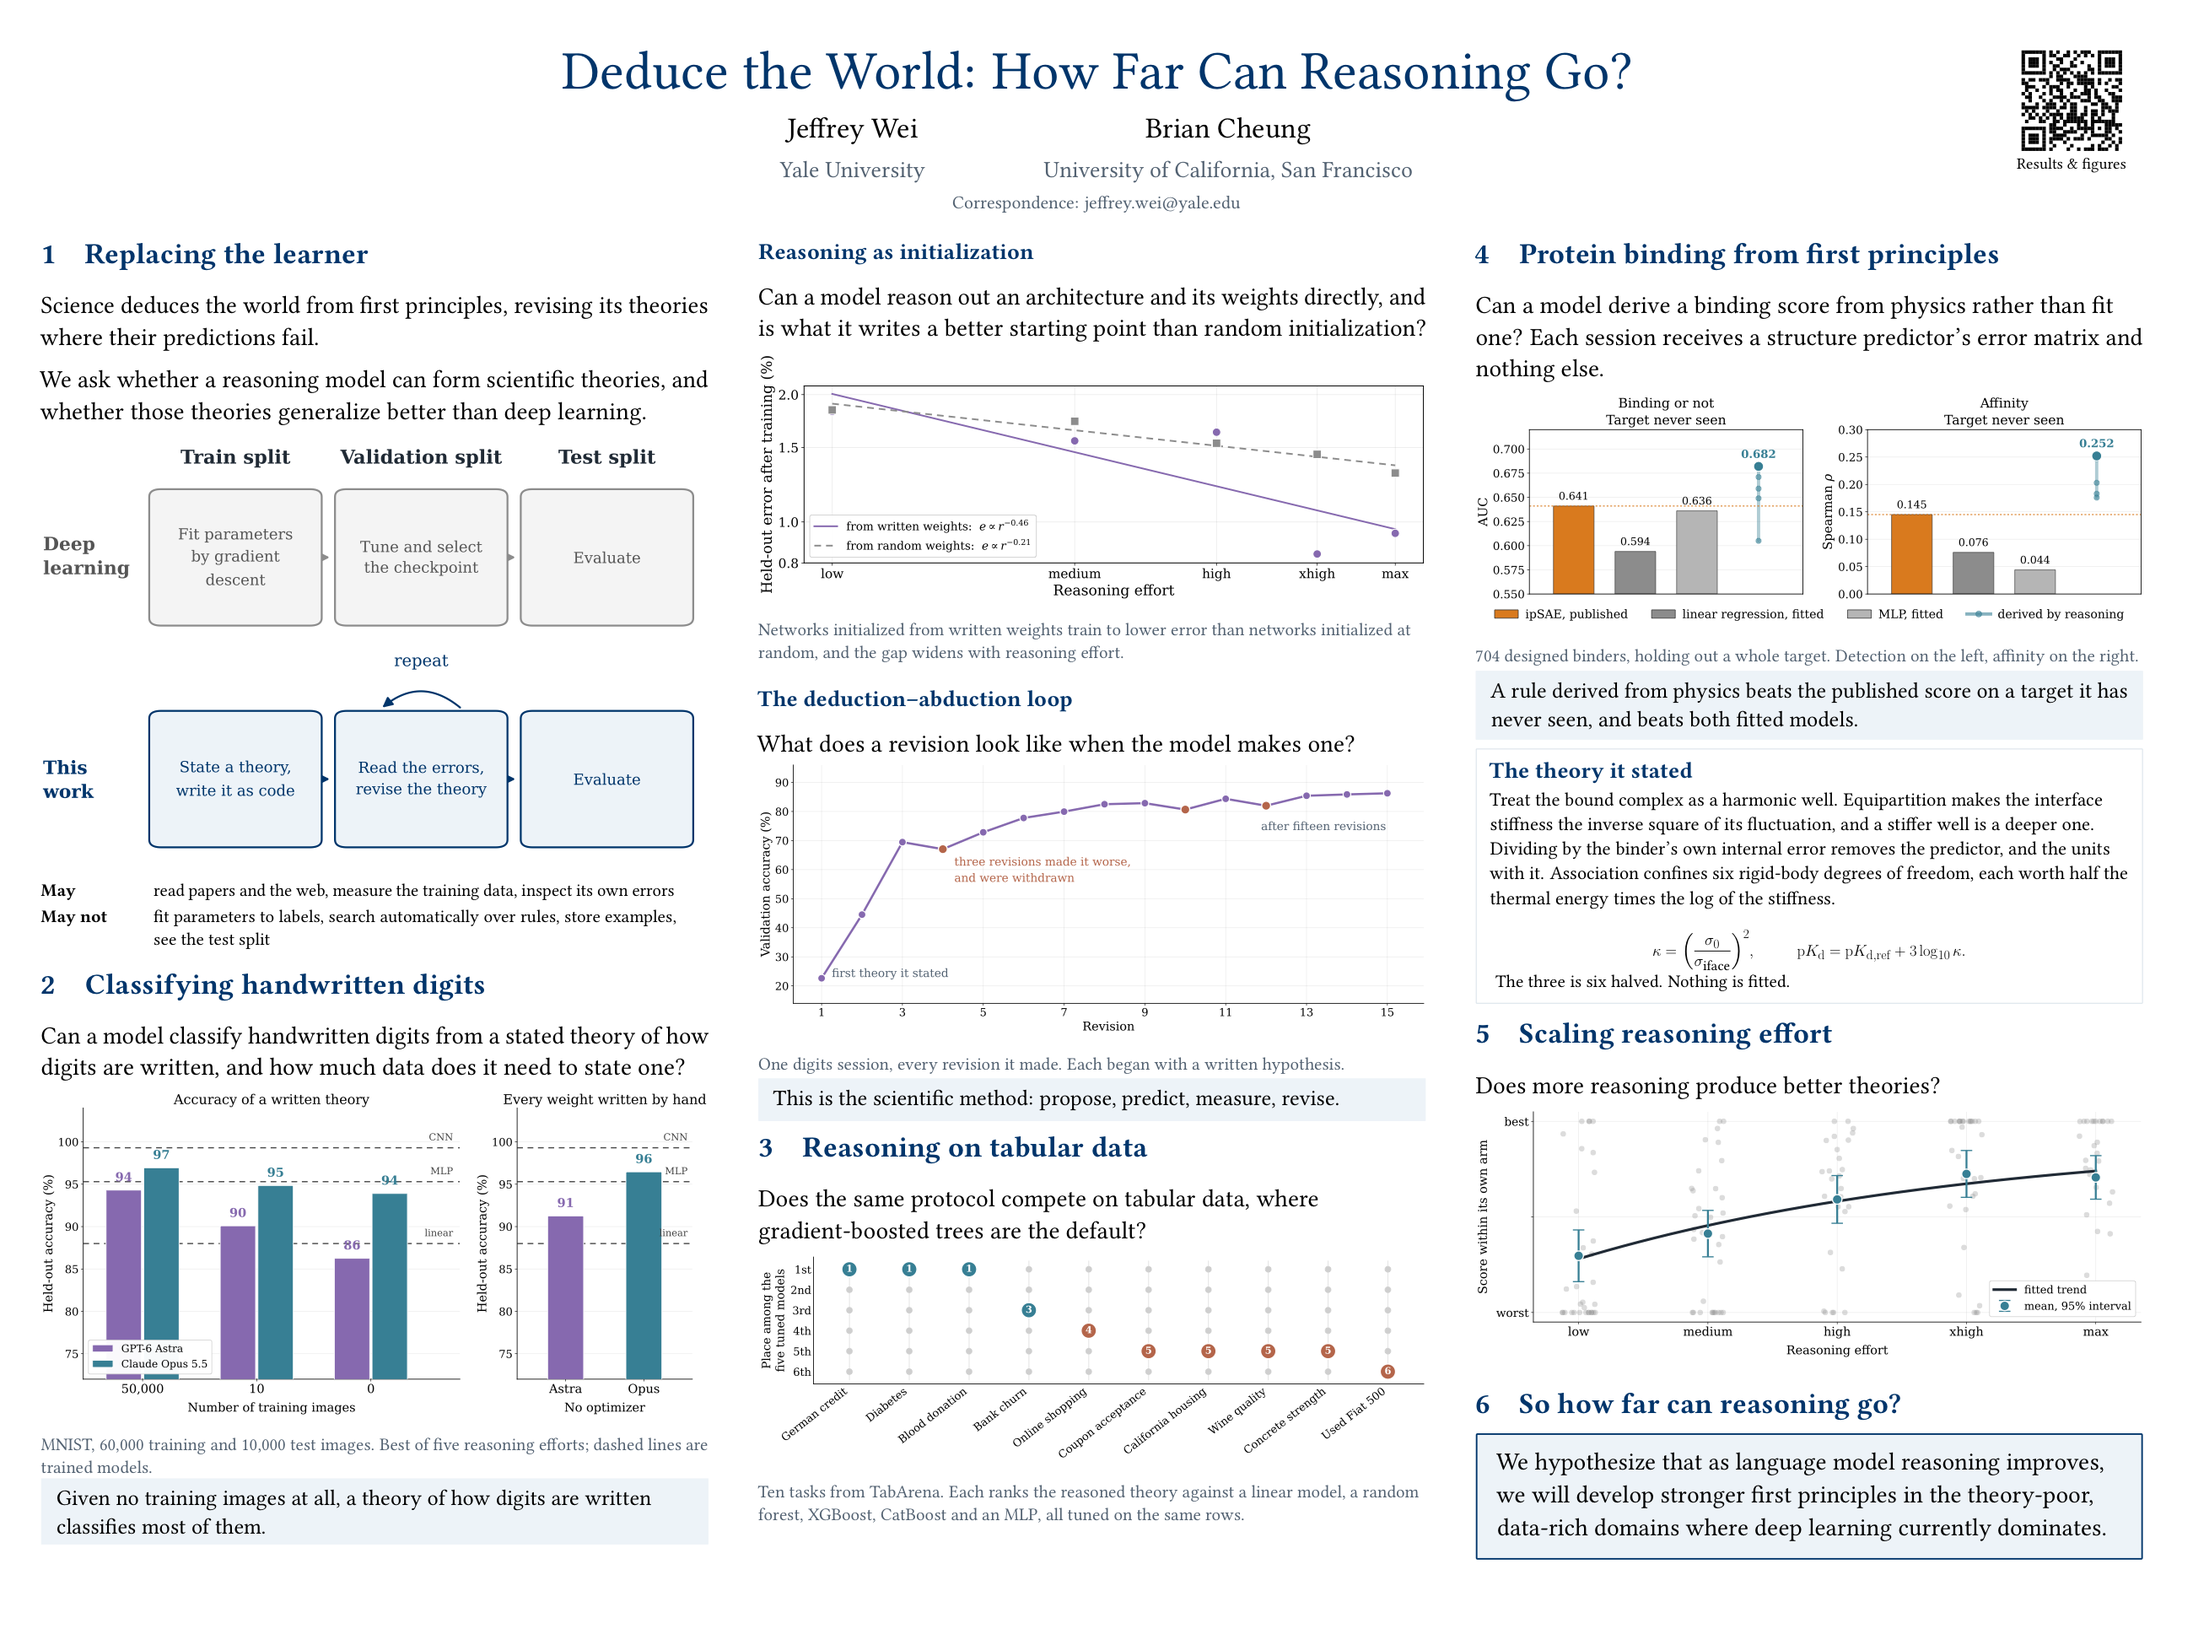
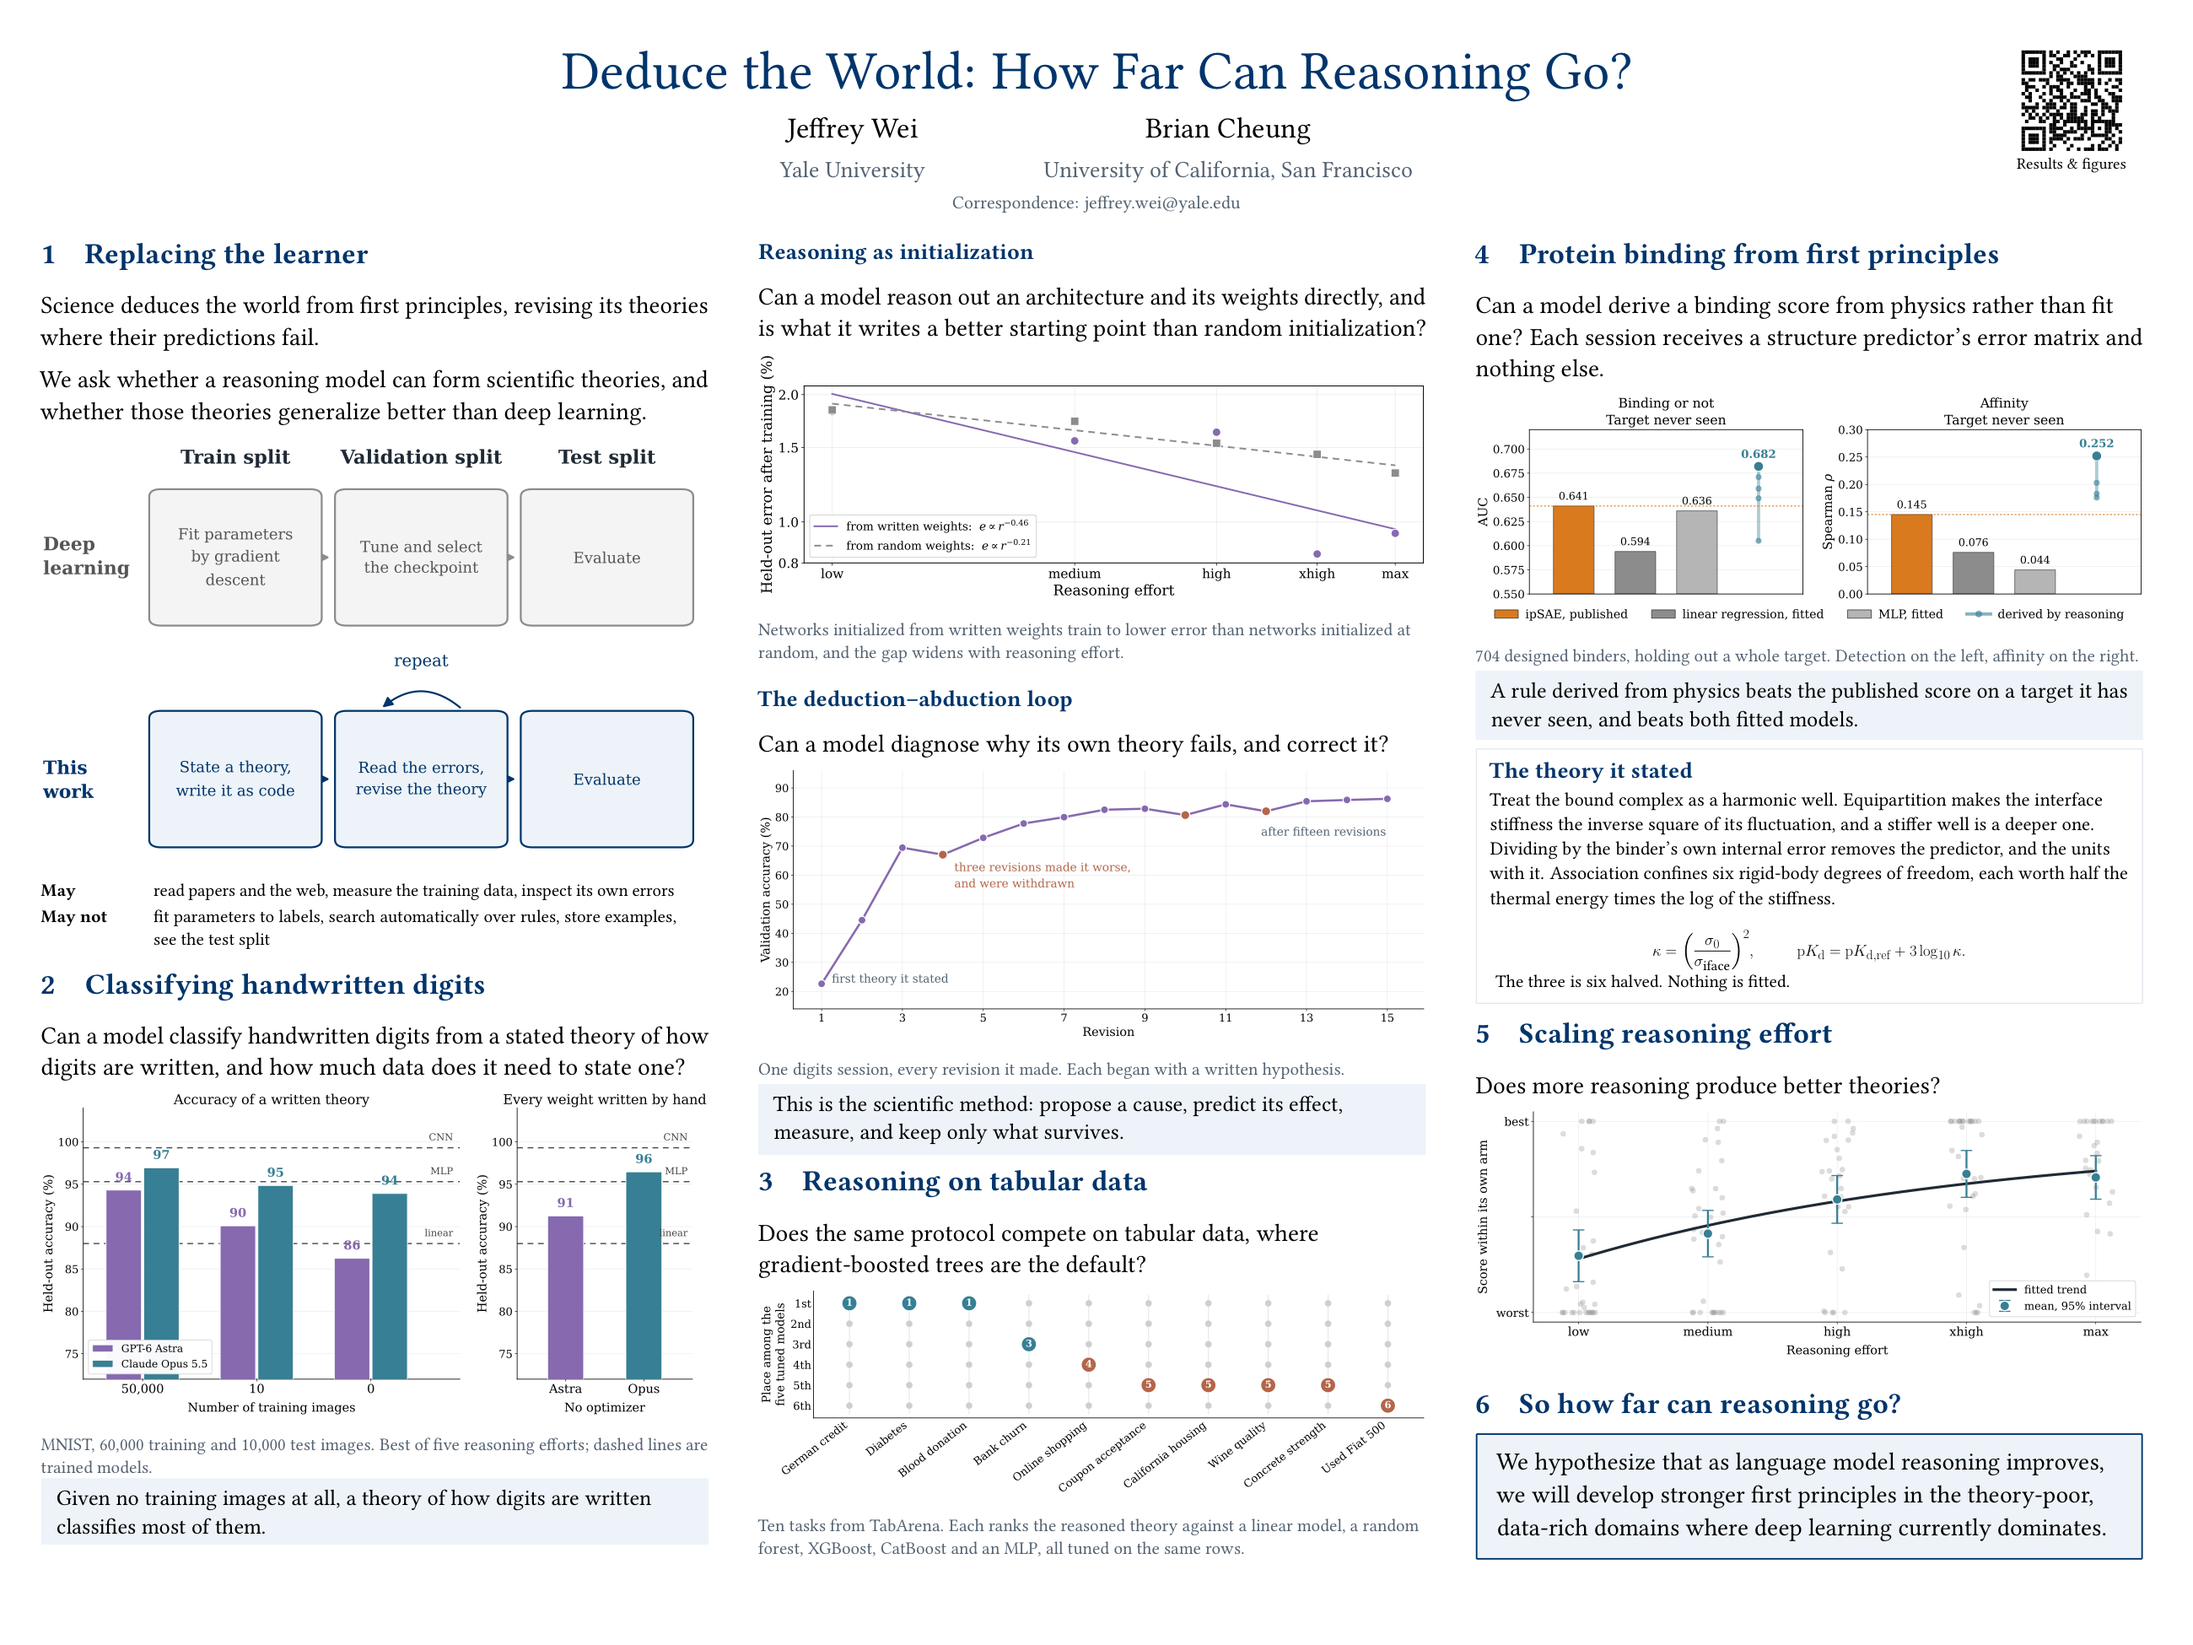
Sharper loop question and a two-line takeaway

diff --git a/poster/poster.tex b/poster/poster.tex
@@ -101,13 +101,13 @@ Can a model reason out an architecture and its weights directly, and is what it 
 
 \vspace{0.20in}
 \subhead{The deduction--abduction loop}
-What does a revision look like when the model makes one?
+Can a model diagnose why its own theory fails, and correct it?
 
 {\centering\includegraphics[width=\linewidth]{poster_cycles}\par}
 \figcaption{One digits session, every revision it made. Each began with a written hypothesis.}
 
 \begin{finding}
-This is the scientific method: propose, predict, measure, revise.
+This is the scientific method: propose a cause, predict its effect, measure, and keep only what survives.
 \end{finding}
 
 \vspace{0.20in}
